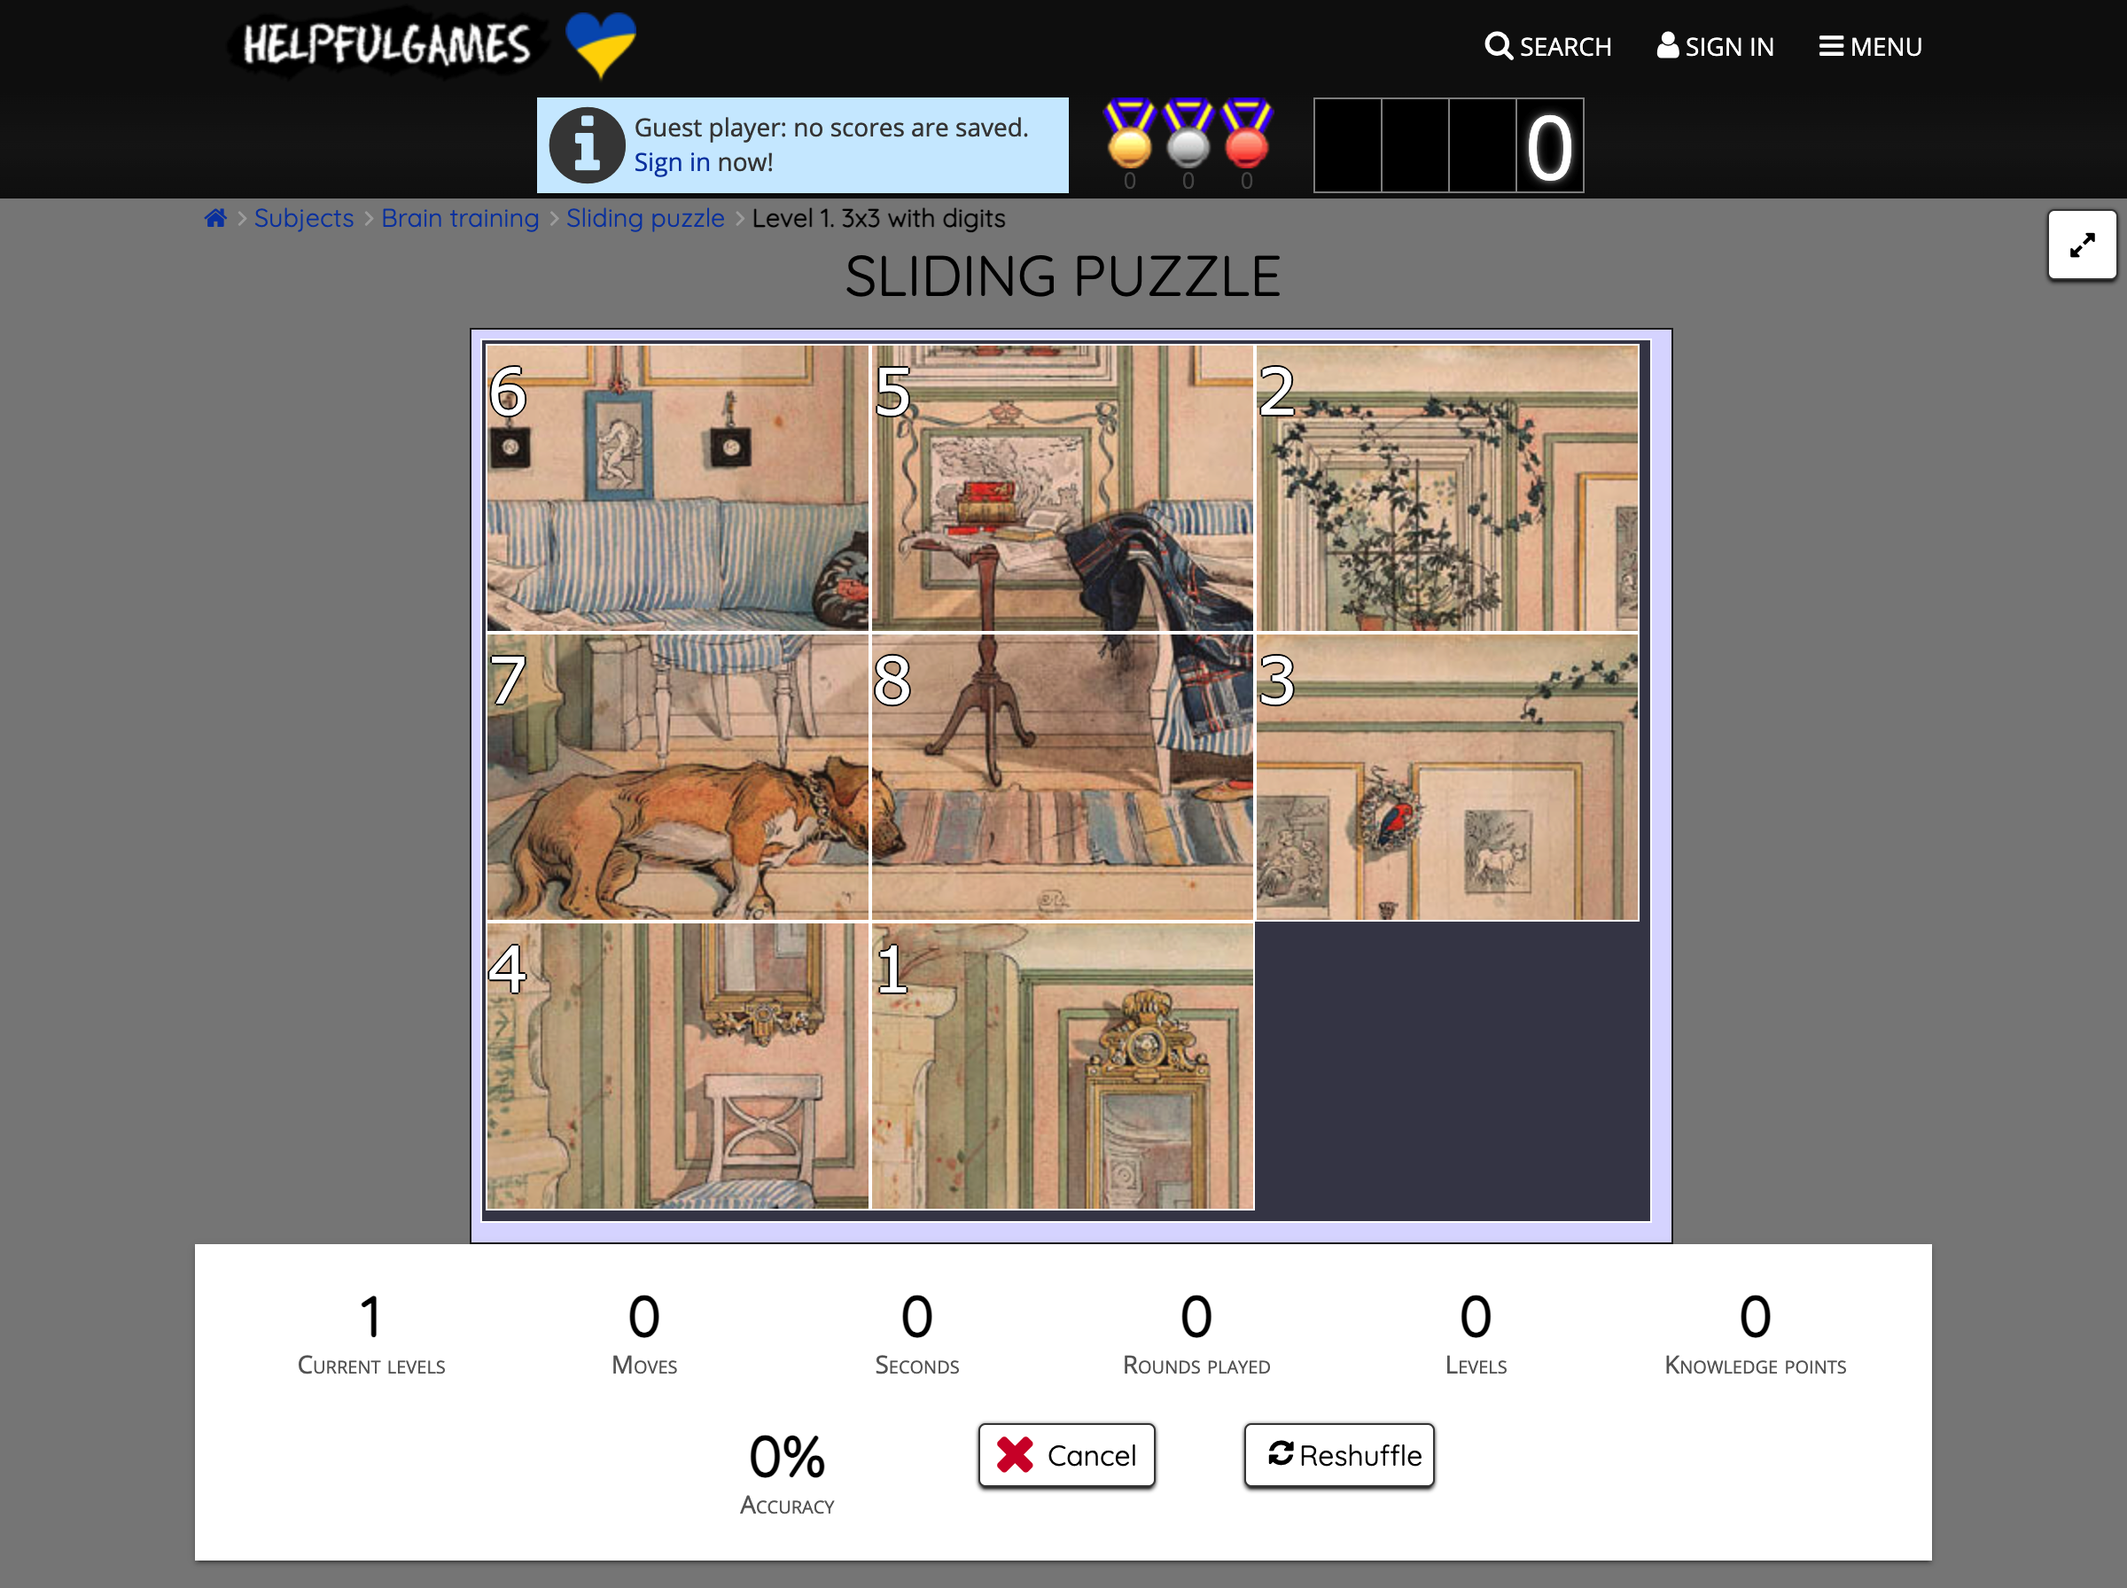
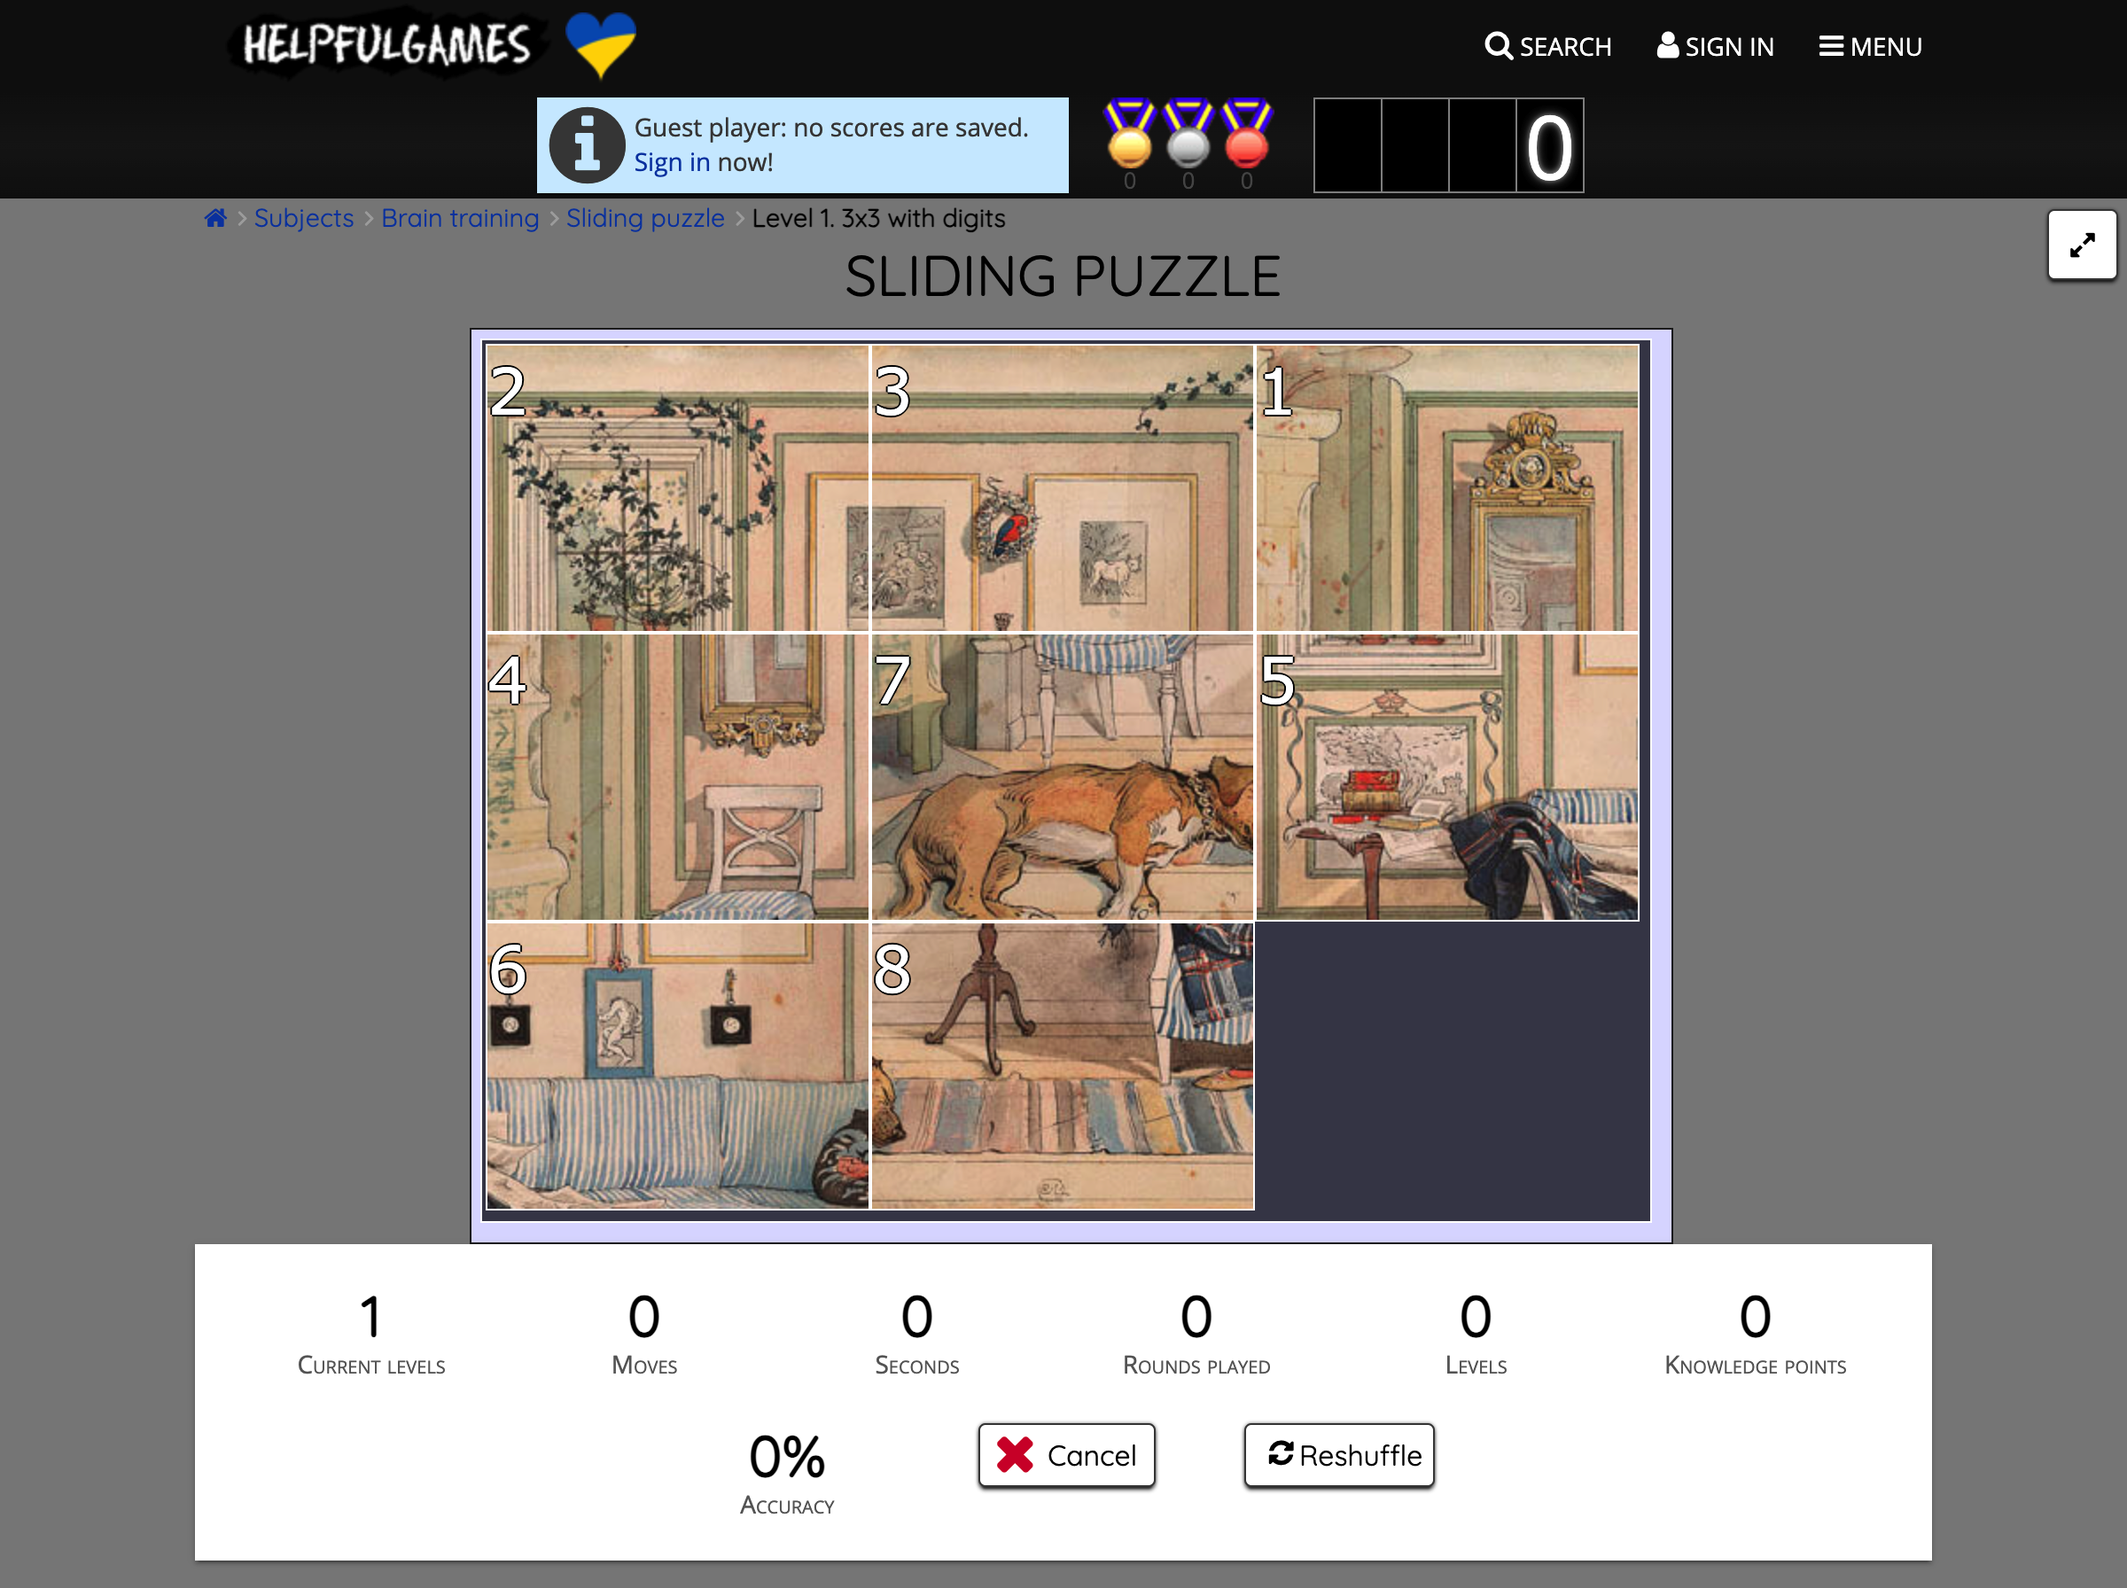
Auto solving is now completed to a certain level

Changed region(s): [[0.2188, 0.2188, 0.7812, 0.7812]]

diff --git a/_test_driver.py b/_test_driver.py
@@ -2,46 +2,83 @@ from selenium import webdriver
 from selenium.webdriver.common.by import By
 from selenium.webdriver.support.ui import WebDriverWait
 from selenium.webdriver.support import expected_conditions as EC
+from selenium.common.exceptions import NoSuchElementException
+from selenium.common.exceptions import ElementClickInterceptedException
 import numpy as np
 import cv2
-import time
-import pytesseract
+import time as t
 
+# Function to initialize the Chrome WebDriver
+def initialize_driver():
+    # Specify the path to chromedriver.exe (downloaded above)
+    chrome_driver_path = 'chromedriver/chromedriver'    
+    # Set up the Chrome WebDriver
+    options = webdriver.ChromeOptions()
+    driver = webdriver.Chrome(chrome_driver_path, options=options)
+    # Open the webpage with the puzzle
+    driver.get('https://www.helpfulgames.com/subjects/brain-training/sliding-puzzle.html')
+    # Wait for the cookies dialog to appear and accept cookies
+    WebDriverWait(driver, 10).until(EC.element_to_be_clickable((By.CLASS_NAME, 'css-fm0uhk'))).click()
+    
+    # XPath for the puzzle select button
+    xpath_for_puzzle_select_button = "//button[@name='level'][@value='0']"
 
-# Set the path to the tesseract executable
-# If you're on Windows, it will be something like 'C:/Program Files/Tesseract-OCR/tesseract.exe'
-# On Linux, it's usually just 'tesseract'
-pytesseract.pytesseract.tesseract_cmd = 'tesseract'
+    # Wait for the element to be present in the DOM
+    puzzle_button = WebDriverWait(driver, 10).until(EC.presence_of_element_located((By.XPATH, xpath_for_puzzle_select_button)))
+    
+    # Check if the button is visible, if not, execute JavaScript to click
+    if puzzle_button.is_displayed():
+        puzzle_button.click()
+    else:
+        driver.execute_script("arguments[0].click();", puzzle_button)
+    
+    return driver
 
-# Specify the path to chromedriver.exe (downloaded above)
-chrome_driver_path = 'chromedriver/chromedriver'
+driver = initialize_driver()
 
-# Set up the Chrome WebDriver
-options = webdriver.ChromeOptions()
-driver = webdriver.Chrome(chrome_driver_path, options=options)
+t.sleep(3)
 
-# Open the webpage with the puzzle
-driver.get('https://www.helpfulgames.com/subjects/brain-training/sliding-puzzle.html')
+def get_xpath(driver, element):
+    js_script = '''
+    function getElementXPath(element) {
+        if (element.id !== '') {
+            return 'id("' + element.id + '")';
+        }
+        if (element === document.body) {
+            return element.tagName;
+        }
+        var index = 0;
+        var siblings = element.parentNode.childNodes;
+        for (var i = 0; i < siblings.length; i++) {
+            var sibling = siblings[i];
+            if (sibling === element) {
+                return getElementXPath(element.parentNode) + '/' + element.tagName.toLowerCase() + '[' + (index + 1) + ']';
+            }
+            if (sibling.nodeType === 1 && sibling.tagName === element.tagName) {
+                index++;
+            }
+        }
+    }
+    return getElementXPath(arguments[0]);
+    '''
+    return driver.execute_script(js_script, element)
 
-# Wait for the cookies dialog to appear and accept cookies
-WebDriverWait(driver, 10).until(EC.element_to_be_clickable((By.CLASS_NAME, 'css-fm0uhk'))).click()
+def capture_initial_xpaths(driver):
+    initial_xpaths = {}
+    for i in range(9):  # Loop from 0 to 8
+        pieces = driver.find_elements(By.CSS_SELECTOR, f'div[current="{i}"]')
+        if pieces:
+            piece_xpath = get_xpath(driver, pieces[0])
+            initial_xpaths[i+1] = piece_xpath
+            
+    print("Initial XPaths:", initial_xpaths)
+    return initial_xpaths
 
-# XPath for the puzzle select button
-xpath_for_puzzle_select_button = "//button[@name='level'][@value='0']"
+initial_xpaths = capture_initial_xpaths(driver)
 
-# Wait for the element to be present in the DOM
-puzzle_button = WebDriverWait(driver, 10).until(EC.presence_of_element_located((By.XPATH, xpath_for_puzzle_select_button)))
-
-# Check if the button is visible, if not, execute JavaScript to click
-if puzzle_button.is_displayed():
-    puzzle_button.click()
-else:
-    driver.execute_script("arguments[0].click();", puzzle_button)
-
-time.sleep(3)
-
-# At this point, you can add code to take a screenshot or interact with the puzzle
-driver.save_screenshot('full_page_screenshot.png')
+def capture_screenshot():
+    # At this point, you can add code to take a screenshot or interact with the puzzle
+    driver.save_screenshot('full_page_screenshot.png')
 
 # Load the screenshot
 screenshot_path = 'full_page_screenshot.png'  # Update this to the path of your screenshot
@@ -96,42 +133,6 @@ def is_empty_space(piece_img, threshold):
 def display_piece_with_std_dev(piece_img, std_dev, title):
     cv2.imshow(title, piece_img)
     print(f"{title} - Standard Deviation: {std_dev}")
-
-# # Analyze each piece in the grid
-# piece_number = 1
-# for row in range(3):
-#     for col in range(3):
-#         # Calculate the top-left corner of the current piece
-#         x = puzzle_x + col * piece_width
-#         y = puzzle_y + row * piece_height
-#         # Extract the piece image
-#         piece_img = image[y:y+piece_height, x:x+piece_width]
-        
-#         # Check if this piece is the empty space
-#         if is_empty_space(piece_img, threshold):
-#             state_matrix[row][col] = 0
-#         else:
-#             state_matrix[row][col] = piece_number
-#             piece_number += 1
-
-# Print the state matrix and piece positions
-# print("State Matrix:")
-# for row in state_matrix:
-#     print(' '.join(str(cell) for cell in row))
-    
-# # Analyze and display each piece in the grid
-# for row in range(3):
-#     for col in range(3):
-#         x = puzzle_x + col * piece_width
-#         y = puzzle_y + row * piece_height
-#         piece_img = image[y:y+piece_height, x:x+piece_width]
-#         std_dev = np.std(cv2.cvtColor(piece_img, cv2.COLOR_BGR2GRAY))
-#         title = f"Piece {row},{col}"
-#         display_piece_with_std_dev(piece_img, std_dev, title)
-
-# # Wait for a key press to close the windows
-# cv2.waitKey(0)
-# cv2.destroyAllWindows()
 
 """This is the part where the number detection code goes. You can use the code from the previous section to extract the number regions from the screenshot."""
 
@@ -203,23 +204,6 @@ for row in range(3):
             state_matrix[row][col] = int(detected_number)
         else:
             state_matrix[row][col] = 0
-            
-# Iterate over each puzzle piece position to display the number region
-# for row in range(3):
-#     for col in range(3):
-#         # Calculate the top-left corner of the current piece
-#         x = puzzle_x + col * piece_width
-#         y = puzzle_y + row * piece_height
-
-#         # Crop the full puzzle image to get the current piece's number region
-#         number_region = image[y:y + number_height, x:x + number_width]
-
-#         # Display the cropped number region
-#         cv2.imshow(f'Number Region {row},{col}', number_region)
-
-# # Wait for a key press to close the windows
-# cv2.waitKey(0)
-# cv2.destroyAllWindows()
 
 # Print the state matrix
 for row in state_matrix:
@@ -230,8 +214,10 @@ for row in state_matrix:
 
 import heapq
 
+INITIAL_STATE = state_matrix.copy()
+
 # The current state of the puzzle
-current_state = state_matrix
+current_state = state_matrix.copy()
 
 # The goal state of the puzzle
 goal_state = [
@@ -304,38 +290,108 @@ def a_star_search(start, goal):
 
     return None  # Return None if no solution is found
 
-# Example usage
 solution_path = a_star_search(current_state, goal_state)
-# if solution_path:
-#     print("Solution Path:", solution_path)
-# else:
-#     print("No solution found.")
+if solution_path:
+    print("Solution Path:", solution_path)
+else:
+    print("No solution found.")
+
+def start_moving():
+    global current_state
+    for move in solution_path:
+        empty_row, empty_col = find_empty_space_position(current_state)
+
+        if move == 'left':
+            piece_row, piece_col = empty_row, empty_col - 1
+        elif move == 'right':
+            piece_row, piece_col = empty_row, empty_col + 1
+        elif move == 'up':
+            piece_row, piece_col = empty_row - 1, empty_col
+        elif move == 'down':
+            piece_row, piece_col = empty_row + 1, empty_col
+
+        # Make sure the piece position is within the grid bounds
+        if 0 <= piece_row < 3 and 0 <= piece_col < 3:
+            print(f"Moving piece {current_state[piece_row][piece_col]} {move}")
+            # Find the number of the piece at that position
+            piece_number = current_state[piece_row][piece_col]
+            
+            print(f"Inital State: {INITIAL_STATE}")
+            
+            piece_position = find_position_number(INITIAL_STATE, piece_number)
+            # Find the initial XPath of that piece
+            piece_xpath = initial_xpaths.get(piece_position)
+            # Click on the piece using its XPath
+            if piece_xpath:
+                click_piece_by_xpath(driver, piece_xpath)
+                # Optionally, add a short delay for the browser to process the move
+                t.sleep(5)
+            
+        # Update current_state after each move
+        current_state = update_state(current_state, move)
+        print(f"Curent State: {current_state}")
+        
+def find_position_number(grid, target):
+    for row_index, row in enumerate(grid):
+        if target in row:
+            col_index = row.index(target)
+            # Calculate position number (row major order)
+            position_number = row_index * len(row) + col_index + 1
+            return position_number
+    return -1  # Return -1 if the target is not found
     
-# def apply_move(state, move):
-#     new_state = [row[:] for row in state]  # Deep copy of the state
-#     row, col = next((r, c) for r in range(3) for c in range(3) if state[r][c] == 0)
+def find_empty_space_position(state):
+    # Find the position (row and column) of the empty space (0)
+    for row in range(3):
+        for col in range(3):
+            if state[row][col] == 0:
+                return row, col
+    return None
 
-#     if move == 'up':
-#         new_state[row][col], new_state[row-1][col] = new_state[row-1][col], new_state[row][col]
-#     elif move == 'down':
-#         new_state[row][col], new_state[row+1][col] = new_state[row+1][col], new_state[row][col]
-#     elif move == 'left':
-#         new_state[row][col], new_state[row][col-1] = new_state[row][col-1], new_state[row][col]
-#     elif move == 'right':
-#         new_state[row][col], new_state[row][col+1] = new_state[row][col+1], new_state[row][col]
+def update_state(state, move):
+    row, col = next((r, c) for r in range(3) for c in range(3) if state[r][c] == 0)
 
-#     return new_state
+    if move == 'up':
+        state[row][col], state[row-1][col] = state[row-1][col], state[row][col]
+    elif move == 'down':
+        state[row][col], state[row+1][col] = state[row+1][col], state[row][col]
+    elif move == 'left':
+        state[row][col], state[row][col-1] = state[row][col-1], state[row][col]
+    elif move == 'right':
+        state[row][col], state[row][col+1] = state[row][col+1], state[row][col]
+
+    return state
 
 
-# # Apply the moves
-# for move in solution_path:
-#     current_state = apply_move(current_state, move)
+def click_piece_by_xpath(driver, xpath):
+    attempts = 0
+    while attempts < 3:  # Retry up to 3 times
+        try:
+            piece = driver.find_element(By.XPATH, xpath)
+            piece.click()
+            break  # If click is successful, break out of the loop
+        except ElementClickInterceptedException:
+            t.sleep(1)  # Wait for 1 second before retrying
+            attempts += 1
 
-# is_solved = current_state == goal_state
-# print("Final State:")
-# for row in current_state:
-#     print(row)
-# print("\nIs the puzzle solved?", is_solved)
 
 # Close the browser
 # driver.quit()
+
+
+# Iterate over each puzzle piece position to display the number region
+# for row in range(3):
+#     for col in range(3):
+#         # Calculate the top-left corner of the current piece
+#         x = puzzle_x + col * piece_width
+#         y = puzzle_y + row * piece_height
+
+#         # Crop the full puzzle image to get the current piece's number region
+#         number_region = image[y:y + number_height, x:x + number_width]
+
+#         # Display the cropped number region
+#         cv2.imshow(f'Number Region {row},{col}', number_region)
+
+# # Wait for a key press to close the windows
+# cv2.waitKey(0)
+# cv2.destroyAllWindows()

diff --git a/_main.py b/_main.py
@@ -3,38 +3,31 @@ from tkinter import scrolledtext, Button
 import _test_driver as td
 
 def solve_puzzle():
-    solution = td.solution_path  # Call your puzzle-solving function
-    print(solution)  # Print the solution to the console
-    solution_text.delete(1.0, tk.END)  # Clear previous solution
-    solution_text.insert(tk.INSERT, ' '.join(solution))  # Display the solution
+    # solution = td.solution_path
+    # print(solution)
+    # solution_text.delete(1.0, tk.END)
+    # solution_text.insert(tk.INSERT, ' '.join(solution))
+    td.start_moving()
     
 def start_puzzle_solver():
-    # _test_driver()  # This should handle the solving and return the solution
-    solve_button['state'] = 'normal'  # Enable the solve button
-    solution_text.delete(1.0, tk.END)  # Clear previous solution
-    # solution_text.insert(tk.INSERT, ' '.join(solution))  # Display the solution
+    solve_button['state'] = 'normal'
+    solution_text.delete(1.0, tk.END)
 
-# Create the main window
 root = tk.Tk()
 root.title("Puzzle Challenge")
 root.attributes("-topmost", True)
 
-# Create a button to start the puzzle solver
 start_button = tk.Button(root, text="Start Solver", command=start_puzzle_solver)
 start_button.pack()
 
-# Create a button to solve the puzzle (disabled initially)
 solve_button = Button(root, text="Solve Puzzle", state='disabled', command=solve_puzzle)
 solve_button.pack()
 
-# Create a text area to display the solution
 solution_text = scrolledtext.ScrolledText(root, wrap=tk.WORD, width=40, height=10)
 solution_text.pack()
 
-# Add a bottom label "Powered by Shehan"
 bottom_label = tk.Label(root, text="Powered by Shehan")
 bottom_label.pack(side=tk.BOTTOM)
 
-# Start the GUI event loop
 root.mainloop()
 
